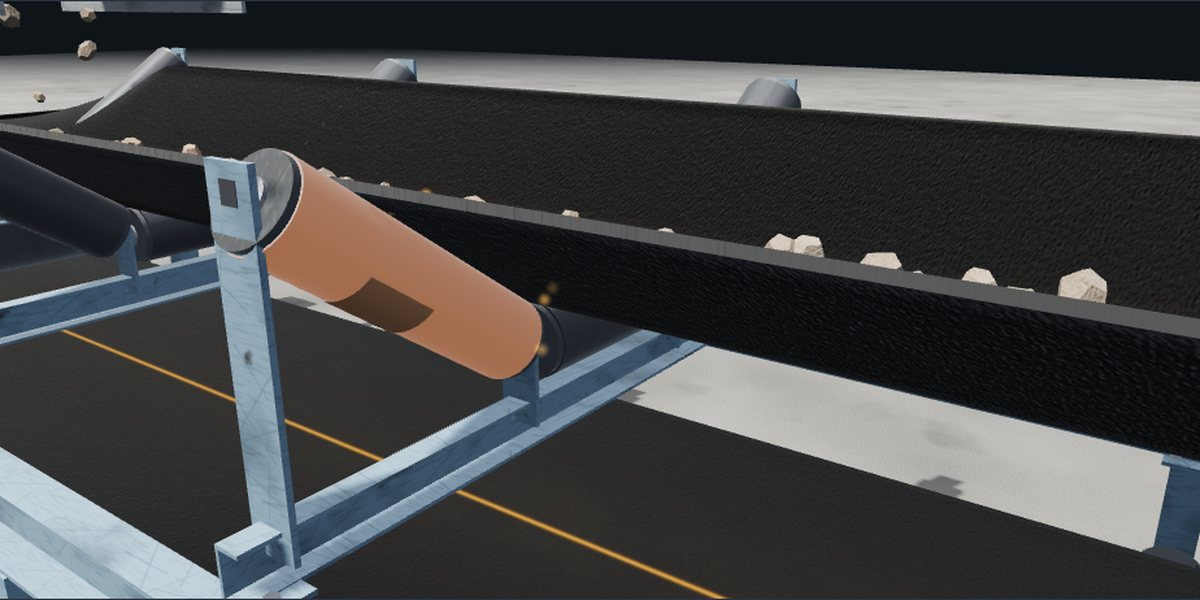
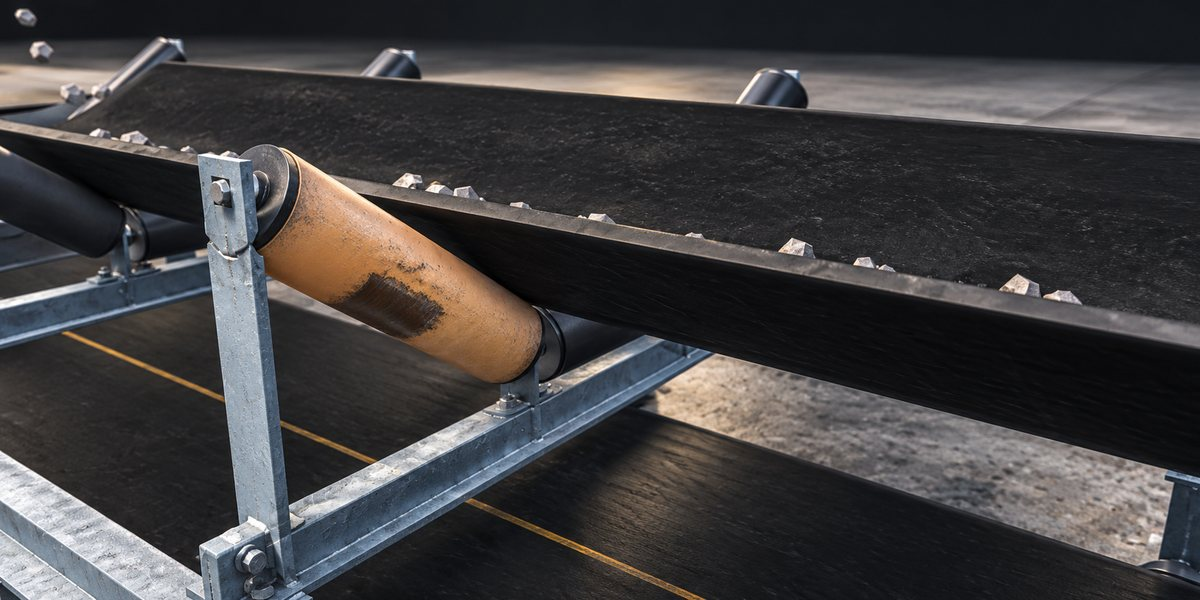
Ролики и барабаны: новая картинка для карточки на главной и превью ссылки
Claude-Session: https://claude.ai/code/session_017Un8pVuKuSP3CbEFkryQMJ

diff --git a/index.html b/index.html
@@ -428,7 +428,7 @@ footer .in{display:flex;flex-wrap:wrap;gap:8px 24px;justify-content:space-betwee
           </div>
         </article>
         <article class="mcard">
-          <button class="pic" data-open="roliki" aria-label="Открыть 3D-модель «Ролики и барабаны»"><img src="img/3d-roliki.jpg" alt="Кадр из 3D-модели: заклинивший конвейерный ролик под лентой" loading="lazy"><span>3D-модель</span><b class="play"><svg viewBox="0 0 24 24" aria-hidden="true"><path d="M12 3a9 9 0 1 0 8.5 6" fill="none" stroke="currentColor" stroke-width="2" stroke-linecap="round"/><path d="M21 3v6h-6" fill="none" stroke="currentColor" stroke-width="2" stroke-linecap="round" stroke-linejoin="round"/><path d="M12 7.5l4 2.3v4.4L12 16.5l-4-2.3V9.8z" fill="none" stroke="currentColor" stroke-width="1.6" stroke-linejoin="round"/><path d="M8 9.8l4 2.3 4-2.3M12 12.1v4.4" fill="none" stroke="currentColor" stroke-width="1.6" stroke-linejoin="round"/></svg>Покрутить в 3D</b></button>
+          <button class="pic" data-open="roliki" aria-label="Открыть 3D-модель «Ролики и барабаны»"><img src="img/3d-roliki.jpg" alt="Изношенный конвейерный ролик под лентой: стёртая обечайка рядом с исправными роликами" loading="lazy"><span>3D-модель</span><b class="play"><svg viewBox="0 0 24 24" aria-hidden="true"><path d="M12 3a9 9 0 1 0 8.5 6" fill="none" stroke="currentColor" stroke-width="2" stroke-linecap="round"/><path d="M21 3v6h-6" fill="none" stroke="currentColor" stroke-width="2" stroke-linecap="round" stroke-linejoin="round"/><path d="M12 7.5l4 2.3v4.4L12 16.5l-4-2.3V9.8z" fill="none" stroke="currentColor" stroke-width="1.6" stroke-linejoin="round"/><path d="M8 9.8l4 2.3 4-2.3M12 12.1v4.4" fill="none" stroke="currentColor" stroke-width="1.6" stroke-linejoin="round"/></svg>Покрутить в 3D</b></button>
           <div class="txt">
             <span class="ref">Раздел 04</span>
             <h3>Ролики и барабаны</h3>

diff --git a/roliki.html b/roliki.html
@@ -12,7 +12,7 @@
 <meta property="og:title" content="Конвейерные ролики и барабаны в 3D — подшипники, футеровка, мотор-барабан | Legacy Kazakhstan">
 <meta property="og:description" content="Интерактивная 3D-модель: заклинивший ролик, разрушенная обечайка, проскальзывание приводного барабана. Стальные и полимерные ролики, роликоопоры, приводные и натяжные барабаны, мотор-барабаны в разрезе.">
 <meta property="og:url" content="https://legacyrk.kz/roliki.html">
-<meta property="og:image" content="https://legacyrk.kz/img/og.jpg">
+<meta property="og:image" content="https://legacyrk.kz/img/og-roliki.jpg">
 <meta property="og:image:width" content="1200">
 <meta property="og:image:height" content="630">
 <meta name="twitter:card" content="summary_large_image">
